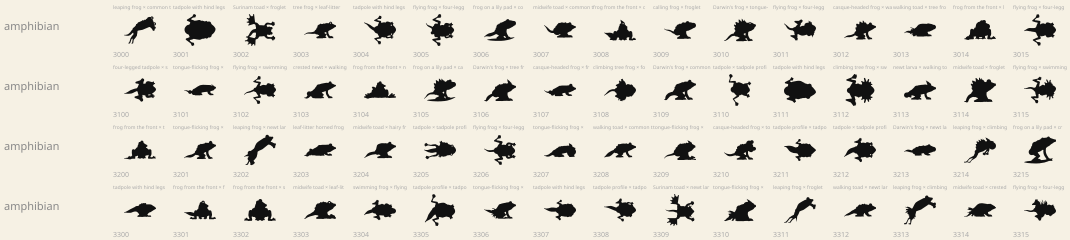
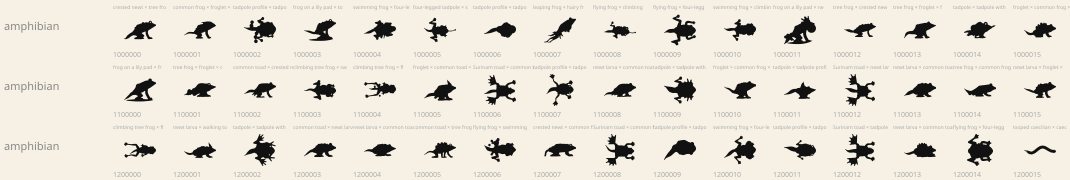
amphibian: chimera fix round (chassis spread, legless caecilians, crest lobes, hair, egg beads, casque, front toes)

diff --git a/src/gen/tags/amphibian.js b/src/gen/tags/amphibian.js
@@ -203,13 +203,13 @@ function frontHind(C, sock, g) {
   seg(C, [kn, add(lerp(kn, an, 0.5), [sd * 0.12 * s, 0]), an], hw * 0.66, ar, hw * 0.62);
   const tb = [an[0] + sd * g.hf * s * 0.55, G - ar * 0.8], base = sd > 0 ? 0 : PI;
   C.ink.poly(tube(polyline([an, tb], 3), ar * 0.85));
-  toes(C, tb, 0, s, { n: 3, len: g.toeLen * 0.9, angs: [base, base - sd * 0.4, base - sd * 0.85], lens: [1, 0.9, 0.7], pad: g.pad, web: g.web, maxY: G, tr: g.tr });
+  toes(C, tb, 0, s, { n: 3, len: g.toeLen * 0.9, angs: [base, base - sd * 0.4, base - sd * 0.85], lens: [1, 0.9, 0.7], pad: g.pad, web: g.web, maxY: G, tr: Math.max(g.tr ?? 0, 0.13) });
 }
 function frontFore(C, sock, g) {
   const s = sock.s, sd = sock.side, G = sock.ground ?? 0, sh = sock.p, r0 = Math.max(g.fw * s * 1.1, MINW * 0.9);
   const hand = [sh[0] - sd * 0.08 * s, G - r0 * 0.8], el = add(lerp(sh, hand, 0.5), [sd * 0.14 * s, 0]), base = sd > 0 ? 0 : PI;
   seg(C, [sh, el, hand], r0, r0 * 0.8);
-  toes(C, hand, 0, s, { n: 3, len: g.toeLen * 0.62, angs: [base, base - sd * 0.5, PI - base], lens: [1, 0.8, 0.75], pad: g.pad, web: 0, maxY: G, tr: g.tr });
+  toes(C, hand, 0, s, { n: 3, len: g.toeLen * 0.62, angs: [base, base - sd * 0.5, PI - base], lens: [1, 0.8, 0.75], pad: g.pad, web: 0, maxY: G, tr: Math.max(g.tr ?? 0, 0.12) });
 }
 
 // Top view. Angles are measured from "forward" (0) round through "outward" (PI/2) to "back" (PI).
@@ -566,7 +566,7 @@ heads.amphibianFrog = (C, sock, g) => {
   // Darwin's frog: a fleshy proboscis off the snout tip
   if (g.nose) ink.poly(leaf(F(sn * 0.9, 0.04 - tipH * 0.4), sock.face - 0.12, (g.nose + 0.15) * s, s * 0.3, 0, 0.3));
   // casque-headed tree frog: a flat bony helmet over the skull, its back edge jutting over the neck
-  if (g.casque) ink.poly([F(-0.4, -0.3), F(-0.75 - g.casque * 1.3, -0.62 * hh - g.casque * 0.55), F(-0.35, -0.86 * hh - g.casque * 0.3), F(0.35, -0.8 * hh - g.casque * 0.15), F(sn * 0.9, -0.2 * hh), F(sn * 0.5, -0.1)]);
+  if (g.casque) ink.poly([F(-0.4, -0.3), F(-0.85 - g.casque * 1.9, -0.7 * hh - g.casque * 0.8), F(-0.35, -0.9 * hh - g.casque * 0.5), F(0.35, -0.84 * hh - g.casque * 0.3), F(sn * 0.9, -0.2 * hh), F(sn * 0.5, -0.1)]);
   const up = sock.face - PI / 2;
   return {
     eyes: [{ p: ep, r: s * 0.15 }], spots: [],
@@ -637,18 +637,21 @@ dorsals.amphibianHair = (C, plan, st, sd, si, g) => {
     if (si > 0) return;
     // shaggy fringe round the back of the haunch, and a few down the lower flank
     const c = hip ? hip.p : pathAt(plan.path, 0.1).p, G = hip?.ground ?? 0;
-    for (let i = 0; i < g.n; i++) {
-      const u = (i + rng.range(0.2, 0.8)) / g.n, a = mix(PI * 0.32, PI * 1.06, u), len = r * g.len * rng.range(0.75, 1.15);
-      const b = polar(c, a, r * 0.46), h = a + 0.45;
-      const e = polar(b, h, len); e[1] = Math.min(e[1], G - MINW);
-      ink.poly(tube(spline([b, polar(lerp(b, e, 0.5), h + PI / 2, len * 0.1), e], 4), profile([[0, Math.max(r * 0.16, MINW * 0.9)], [0.6, Math.max(r * 0.08, MINW * 0.7)], [1, MINW * 0.55]])));
+    // a few thick strands from flank and thigh, hanging back and down, ends kept off the ground
+    const n = clamp(Math.round(g.n / 2.4), 5, 7);
+    for (let i = 0; i < n; i++) {
+      const u = (i + rng.range(0.3, 0.7)) / n, a = mix(PI * 0.15, PI * 0.95, u), len = r * g.len * rng.range(0.6, 0.85);
+      const b = polar(c, a, r * 0.5), h = a + 0.35;
+      const e = polar(b, h, len); e[1] = Math.min(e[1], G - r * 0.35);
+      ink.poly(tube(spline([b, polar(lerp(b, e, 0.5), h + PI / 2, len * 0.08), e], 4), profile([[0, Math.max(r * 0.2, MINW * 1.2)], [0.6, Math.max(r * 0.13, MINW)], [1, Math.max(r * 0.07, MINW * 0.8)]])));
     }
     return;
   }
   if (plan.amphLimbless) return; // on a caecilian or tadpole the fringe turns it into a centipede
-  for (let i = 0; i < Math.ceil(g.n / 2); i++) {
-    const k = st[Math.round(mix(0, st.length - 1, (i + 0.5) / Math.ceil(g.n / 2)))], a = k.dir + sd * rng.range(0.2, 0.6) * 0, len = r * g.len * rng.range(0.6, 1);
-    ink.poly(tube(spline([polar(k.p, k.dir, -r * 0.1), polar(k.p, a, len * 0.5), polar(polar(k.p, a, len), a + PI / 2, len * 0.2 * sd)], 4), profile([[0, Math.max(r * 0.09, MINW * 0.7)], [1, MINW / 2]])));
+  const m = clamp(Math.round(g.n / 4), 3, 4);
+  for (let i = 0; i < m; i++) {
+    const k = st[Math.round(mix(0, st.length - 1, (i + 0.5) / m))], a = k.dir, len = r * g.len * rng.range(0.45, 0.7);
+    ink.poly(tube(spline([polar(k.p, k.dir, -r * 0.1), polar(k.p, a, len * 0.5), polar(polar(k.p, a, len), a + PI / 2, len * 0.15 * sd)], 4), profile([[0, Math.max(r * 0.16, MINW * 1.1)], [1, Math.max(r * 0.06, MINW * 0.8)]])));
   }
 };
 
@@ -658,12 +661,12 @@ dorsals.amphibianCrest = (C, plan, st, sd, si, g) => {
   if (si > 0 || plan.view !== 'side') return; // a crest is only an outline in profile
   // sized for a slim newt (r ~6): on fat bodies the same ratio made one huge shark fin
   const { ink, rng } = C, r = plan.r * clamp(6.5 / plan.r, 0.45, 1), n = st.length, at = u => { const x = clamp(u, 0, 1) * (n - 1), i = Math.min(Math.floor(x), n - 2); return { p: lerp(st[i].p, st[i + 1].p, x - i), dir: st[i].dir }; };
-  const pts = [];
-  for (let t = 0; t < g.n; t++) {
-    const u0 = t / g.n, w = 1 / g.n, hk = rng.range(0.92, 1.1);
-    for (const [f, hh] of [[0, 0.5], [0.38, hk], [0.62, hk * 0.93]]) {
-      const u = u0 + f * w, k = at(u);
-      pts.push(polar(k.p, k.dir, r * g.h * Math.sin(PI * u) ** 0.6 * hh));
+  const pts = [], nl = clamp(Math.round(g.n) - 1, 4, 6);
+  for (let t = 0; t < nl; t++) {
+    const u0 = 0.06 + 0.88 * t / nl, w = 0.88 / nl, hk = rng.range(0.9, 1.1);
+    for (let j = 0; j <= 6; j++) {
+      const f = j / 6, u = u0 + f * w, k = at(u), lobe = Math.sin(PI * f) ** 0.5;
+      pts.push(polar(k.p, k.dir, r * (0.1 + g.h * 0.6 * Math.sin(PI * u) ** 0.4 * hk * mix(0.3, 1, lobe))));
     }
   }
   pts.push(at(1).p);
@@ -697,26 +700,29 @@ dorsals.amphibianEggs = (C, plan, st, sd, si, g) => {
     if (si > 0) return;
     // a looped string of beads trailing from the hips to the heels
     const { ink, rng } = C, r = plan.r, er = Math.max(r * g.size * 0.78, MINW * 1.6), G = hip.ground ?? 0, h = hip.p, gy = G - er * 1.05;
-    const back = Math.max(plan.rad(0), r * 0.5) + r * rng.range(0.55, 0.8), sag = rng.range(0.1, 0.3);
+    const back = Math.max(plan.rad(0), r * 0.5) + r * rng.range(1.0, 1.3), sag = rng.range(0.1, 0.3);
     const path = spline([add(h, [-0.35 * r, -0.2 * r]), [h[0] - back, mix(h[1], gy, 0.25)], [h[0] - back * 0.85, gy - sag * r], [h[0] - 0.25 * r, gy]], 10);
-    ink.poly(tube(path, Math.max(er * 0.3, MINW * 0.6)));
-    let acc = 0;
-    for (let i = 1; i < path.length; i++) {
-      acc += dist(path[i - 1], path[i]);
-      if (acc >= er * 2.25) { acc = 0; const q = [path[i][0], Math.min(path[i][1], gy)]; ink.poly(ellipse(q, er, er, 0, 14)); }
+    ink.poly(tube(path, Math.max(er * 0.22, MINW * 0.6)));
+    // separate beads spaced evenly along the string, a clear gap between each
+    const cum = [0]; for (let i = 1; i < path.length; i++) cum.push(cum[i - 1] + dist(path[i - 1], path[i]));
+    const tot = cum[cum.length - 1], nb = clamp(g.n, 4, 5), br = Math.max(Math.min(er * 1.1, tot / nb / 2.3), MINW * 1.4);
+    for (let k = 0; k < nb; k++) {
+      const d = tot * (k + 0.5) / nb; let i = 1; while (i < cum.length - 1 && cum[i] < d) i++;
+      const q = lerp(path[i - 1], path[i], (d - cum[i - 1]) / Math.max(cum[i] - cum[i - 1], 1e-6));
+      ink.poly(ellipse([q[0], Math.min(q[1], G - br * 1.05)], br, br, 0, 14));
     }
     return;
   }
   // seen from above (any top-view or side body without legs): a clutch of beads heaped on the rump
   if (si > 0 || !plan.path) return;
   const { ink, rng } = C, r = plan.r, er = Math.max(r * g.size * 0.5, MINW * 1.6), q = pathAt(plan.path, 0.08);
-  const ux = Math.cos(q.ang), uy = Math.sin(q.ang), c = q.p, cnt = g.n + g.rows * 2;
+  const ux = Math.cos(q.ang), uy = Math.sin(q.ang), c = q.p, cnt = Math.min(g.n + g.rows, 8);
   for (let i = 0; i < cnt; i++) {
-    const a = i * 2.4 + rng.range(-0.2, 0.2), d = er * 1.15 * Math.sqrt(i + 0.3);
+    const a = i * 2.4 + rng.range(-0.15, 0.15), d = er * 2.5 * Math.sqrt(i + 0.3);
     const lx = -Math.abs(Math.cos(a)) * d * 0.9, ly = Math.sin(a) * d;
     const p = [c[0] + ux * lx - uy * ly, c[1] + uy * lx + ux * ly];
     if (plan.view === 'side') p[1] = Math.min(p[1], -er);
-    ink.dot(p, er * rng.range(0.9, 1.1));
+    ink.dot(p, er * rng.range(0.85, 0.95));
   }
 };
 
@@ -736,18 +742,18 @@ const topBody = (r, o) => ({ type: 'amphibianTop', r: r.range(8.5, 10.5), len: r
 const species = [
   // ---- sitting frogs, side view ----
   { name: 'common frog', w: 3, genes: r => ({
-    chassis: sit(r, {}), head: frogHead(r), limbs: legs(r, 'frog'), tail: none(), dorsal: none(), crown: popEyes(r), surface: look(r),
+    chassis: sit(r, { r: r.range(8, 11.5), len: r.range(17, 27), pitch: r.wpick([[2, r.range(0.45, 0.66)], [1, r.range(0.75, 0.95)], [1, r.range(0.15, 0.3)]]) }), head: frogHead(r), limbs: legs(r, 'frog'), tail: none(), dorsal: none(), crown: popEyes(r), surface: look(r),
   }) },
   { name: 'frog on a lily pad', w: 2, genes: r => ({
     chassis: sit(r, { type: 'amphibianPad', r: r.range(8.5, 10), padW: r.range(2.3, 2.9), padT: r.range(0.4, 0.55), curl: r.range(0, 1.2) }),
     head: frogHead(r), limbs: legs(r, r.pick(['frog', 'frog', 'tree'])), tail: none(), dorsal: none(), crown: popEyes(r), surface: look(r),
   }) },
-  { name: 'hairy frog', w: 1, genes: r => ({ // Trichobatrachus: breeding males grow hair-like filaments on flanks and thighs
+  { name: 'hairy frog', hybrid: { noLend: ['chassis'] }, w: 1, genes: r => ({ // Trichobatrachus: breeding males grow hair-like filaments on flanks and thighs
     chassis: sit(r, { r: r.range(9.5, 11), len: r.range(18, 22), pitch: r.range(0.42, 0.56), belly: 0.92 }),
     head: frogHead(r, { snout: r.range(0.95, 1.08), point: 0.05, deep: 0.7, eye: r.range(0.28, 0.33) }),
     limbs: legs(r, 'frog', { hw: r.range(0.46, 0.52) }), tail: none(), dorsal: { type: 'amphibianHair', n: r.int(13, 17), len: r.range(1.05, 1.35) }, crown: popEyes(r), surface: look(r, 0.3, 0),
   }) },
-  { name: 'calling frog', w: 2, genes: r => ({
+  { name: 'calling frog', hybrid: { noLend: ['chassis'] }, w: 2, genes: r => ({
     chassis: sit(r, { r: r.range(8, 9.5), len: r.range(18, 22), pitch: r.range(0.58, 0.75) }),
     head: frogHead(r, { pouch: r.range(0.95, 1.4), snout: r.range(1.05, 1.2), eye: r.range(0.32, 0.38) }),
     limbs: legs(r, r.pick(['frog', 'tree'])), tail: none(), dorsal: none(), crown: popEyes(r), surface: look(r, 0.3),
@@ -757,28 +763,28 @@ const species = [
     head: frogHead(r, { snout: r.range(1, 1.15), point: 0.1, eye: r.range(0.38, 0.46), eyeUp: 0.3 }),
     limbs: legs(r, 'tree'), tail: none(), dorsal: none(), crown: popEyes(r), surface: look(r, 0.4, 0.1),
   }) },
-  { name: 'tongue-flicking frog', w: 1.2, genes: r => ({
+  { name: 'tongue-flicking frog', hybrid: { noLend: ['chassis'] }, w: 1.2, genes: r => ({
     chassis: sit(r, { pitch: r.range(0.5, 0.7), face: r.range(0.25, 0.5) }), head: frogHead(r, { tongue: r.range(1.4, 2.6) }),
     limbs: legs(r, 'frog'), tail: none(), dorsal: none(), crown: popEyes(r), surface: look(r, 0.4),
   }) },
-  { name: 'leaf-litter horned frog', w: 1.5, genes: r => ({
+  { name: 'leaf-litter horned frog', hybrid: { noLend: ['chassis'] }, w: 1.5, genes: r => ({
     chassis: sit(r, { seat: r.range(0.55, 0.7), r: r.range(9, 10.5), len: r.range(18, 22), pitch: r.range(0.34, 0.5), belly: 0.96, hump: r.range(0.5, 0.9) }),
     head: frogHead(r, { snout: r.range(1.4, 1.7), point: 1, deep: 0.56, eye: r.range(0.24, 0.3), hh: 0.92, wide: 1.1 }),
     limbs: legs(r, 'frog', { hw: 0.36, web: 0.3 }), tail: none(), dorsal: none(), crown: { type: 'amphibianBrow', len: r.range(0.6, 1), lean: r.range(-0.1, 0.25), pair: true }, surface: look(r, 0.2, 0.2),
   }) },
-  { name: "Darwin's frog", w: 1.3, genes: r => ({ // Rhinoderma: a leaf-litter frog with a fleshy nose spike
+  { name: "Darwin's frog", hybrid: { noLend: ['chassis'] }, w: 1.3, genes: r => ({ // Rhinoderma: a leaf-litter frog with a fleshy nose spike
     chassis: sit(r, { r: r.range(7.5, 9), len: r.range(18, 22), pitch: r.range(0.45, 0.62) }),
     head: frogHead(r, { snout: r.range(1.2, 1.4), point: 1, deep: 0.58, eye: r.range(0.3, 0.36), nose: r.range(0.55, 0.9) }),
     limbs: legs(r, 'frog', { hl: r.range(1.05, 1.2) }), tail: none(), dorsal: none(), crown: popEyes(r), surface: look(r, 0.3, 0.2),
   }) },
-  { name: 'casque-headed frog', w: 1.3, genes: r => ({ // Triprion / Corythomantis: a flat bony helmet of a head
+  { name: 'casque-headed frog', hybrid: { noLend: ['chassis'] }, w: 1.3, genes: r => ({ // Triprion / Corythomantis: a flat bony helmet of a head
     chassis: sit(r, { r: r.range(7.5, 9), len: r.range(20, 24), pitch: r.range(0.3, 0.5), belly: 0.9, hump: r.range(0.1, 0.4), headS: r.range(1.05, 1.2) }),
     head: frogHead(r, { snout: r.range(1.2, 1.45), point: r.range(0.5, 0.9), deep: 0.56, eye: r.range(0.26, 0.32), casque: r.range(0.35, 0.65), hh: 0.9 }),
     limbs: legs(r, 'tree'), tail: none(), dorsal: none(), crown: none(), surface: look(r, 0.3, 0.1),
   }) },
   // ---- toads ----
   { name: 'common toad', w: 3, genes: r => ({
-    chassis: sit(r, { seat: r.range(0.35, 0.5), r: r.range(10.5, 12.5), len: r.range(15, 19), pitch: r.range(0.3, 0.46), rump: 0.74, belly: 1.08, chest: 0.92, neck: 0.8, hump: 0, headS: 0.84 }),
+    chassis: sit(r, { seat: r.range(0.35, 0.5), r: r.range(10.5, 12.5), len: r.range(15, 19), pitch: r.range(0.18, 0.55), rump: 0.74, belly: 1.08, chest: 0.92, neck: 0.8, hump: 0, headS: 0.84 }),
     head: frogHead(r, { snout: r.range(0.9, 1.02), point: 0, deep: 0.72, eye: r.range(0.25, 0.3), parotoid: r.range(1.2, 1.5), neck: 0.78 }),
     limbs: legs(r, 'toad', { hw: 0.5, fw: 0.3 }), tail: none(), dorsal: warts(r, { n: r.int(4, 6), size: r.range(0.2, 0.26) }), crown: popEyes(r), surface: look(r, 0.35, 0.5),
   }) },
@@ -788,7 +794,7 @@ const species = [
     limbs: legs(r, 'toad', { stride: true, lift: r.range(1.15, 1.45), ankleX: r.range(-1.1, -0.7), farDX: r.range(1.6, 2.1), reach: r.range(0.8, 1.1), farReach: r.range(-1.7, -1.3), hl: r.range(1.25, 1.4), fl: r.range(2.0, 2.3), hw: 0.36, fw: 0.24 }),
     tail: none(), dorsal: warts(r, { n: r.int(4, 6), size: r.range(0.11, 0.15) }), crown: popEyes(r), surface: look(r, 0.35, 0.5),
   }) },
-  { name: 'midwife toad', w: 1.2, genes: r => ({
+  { name: 'midwife toad', hybrid: { noLend: ['chassis'] }, w: 1.2, genes: r => ({
     chassis: sit(r, { seat: r.range(0.38, 0.5), r: r.range(9.5, 11), len: r.range(15, 19), pitch: r.range(0.26, 0.4), rump: 0.7, belly: 1.04, chest: 0.9, neck: 0.78, hump: 0, headS: 0.86 }),
     head: frogHead(r, { snout: r.range(0.9, 1.05), point: 0.05, deep: 0.68, eye: r.range(0.3, 0.36) }),
     limbs: legs(r, 'toad'), tail: none(), dorsal: { type: 'amphibianEggs', n: r.int(4, 6), rows: r.int(2, 3), size: r.range(0.55, 0.65) }, crown: popEyes(r), surface: look(r, 0.3, 0),
@@ -857,11 +863,11 @@ const species = [
     dorsal: none(), crown: popEyes(r), surface: look(r, 0.4, 0),
   }) },
   // ---- caecilians ----
-  { name: 'caecilian', w: 1.2, genes: r => ({
+  { name: 'caecilian', hybrid: { keep: ['limbs', 'dorsal'] }, w: 1.2, genes: r => ({
     chassis: { type: 'amphibianCaecilian', style: 'wave', r: r.range(3.6, 4.4), len: r.range(58, 72), amp: r.range(6, 10), k: r.range(1.1, 1.7), ring: r.range(0.75, 0.95) },
     head: { type: 'amphibianBlunt', len: r.range(1.2, 1.6), tipR: r.range(0.5, 0.62) }, limbs: legs(r, 'frog', { ownNone: true }), tail: none(), dorsal: none(), crown: none(), surface: { eyes: 'none' },
   }) },
-  { name: 'looped caecilian', w: 0.7, genes: r => ({
+  { name: 'looped caecilian', hybrid: { keep: ['limbs', 'dorsal'] }, w: 0.7, genes: r => ({
     chassis: { type: 'amphibianCaecilian', style: 'loop', r: r.range(3.2, 3.7), c: r.range(5.2, 6.2), R: r.range(12.5, 14.5), lead: r.range(0.9, 1.3), tailLead: r.range(0.7, 1.2), drift: r.range(-0.6, 0.6), ring: r.range(0.75, 0.95) },
     head: { type: 'amphibianBlunt', len: r.range(1.2, 1.6), tipR: r.range(0.5, 0.62) }, limbs: legs(r, 'frog', { ownNone: true }), tail: none(), dorsal: none(), crown: none(), surface: { eyes: 'none' },
   }) },

diff --git a/docs/tags/amphibian.md b/docs/tags/amphibian.md
@@ -25,6 +25,20 @@ eyes, toe pads, inflated throat, tadpole tail. Default eyes: a small dot only wh
 helps; most should read without.
 
 ## State
+2026-11-14 M8 chimera fix round (hybrid 1, judged at --cell 60): still **27 species**. Sheet
+`out/roads/07-amphibian-chimeras.png` (seed rows 1000/1100/1200). Chassis spread: the seven
+species whose identity is a head or dorsal on a generic sitting frog (hairy, calling,
+tongue-flicking, horned, Darwin's, casque, midwife) carry `hybrid: { noLend: ['chassis'] }`,
+so chimeras take leap/top/front/tadpole/pad/newt bodies far more often (sit share ~48% -> ~30%);
+common frog pitch now crouch/upright/low-walk mix, wider size; toad pitch 0.18-0.55.
+Caecilians `keep: ['limbs', 'dorsal']`: chimera worms are legless, foreign head gives the eye.
+Crest: 4-6 broad rounded lobes, lower. Hair: 5-7 thick strands (3-4 per side top view), ends
+held r*0.35 above ground. Eggs: 4-5 separate beads spaced on the string; top-view clutch is
+<= 8 spaced beads. Casque overhang ~1.5x longer. Front-view toes thicker (tr >= 0.12-0.13).
+Not done: upright tadpole-profile neck notch, collage joins on mixed sit chassis.
+Weakest: tadpole profile chimeras (lumps), midwife eggs (small), hairy frog fringe (broom),
+caecilian heads (eye small).
+
 2026-11-14 M8 phase 2 (chimeras at hybrid 1, judged at --cell 60): **27 species** (was 25).
 Sheet `out/roads/07-amphibian-chimeras.png`. Added bold parts for meldings: Darwin's frog
 (head `nose` proboscis), casque-headed frog (head `casque` bony helmet, side and top), newt
